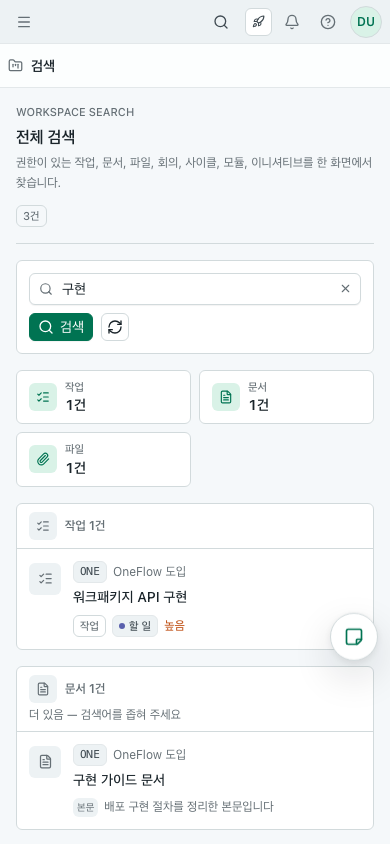
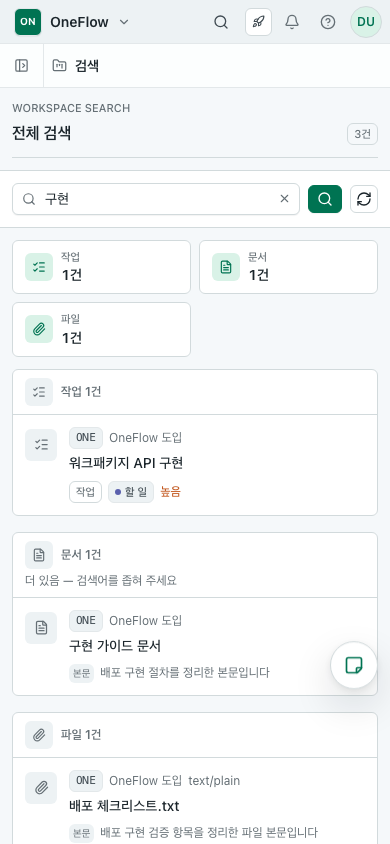
feat(web): retain mobile search results on failure (#503)

diff --git a/apps/web/src/features/search/SearchPage.tsx b/apps/web/src/features/search/SearchPage.tsx
@@ -2,6 +2,7 @@ import {
   Boxes,
   CalendarClock,
   CalendarDays,
+  CircleAlert,
   Compass,
   FileText,
   Paperclip,
@@ -11,7 +12,7 @@ import {
   X,
   type LucideIcon,
 } from 'lucide-react'
-import { type FormEvent, type ReactNode, useEffect, useMemo, useState } from 'react'
+import { type FormEvent, type ReactNode, useEffect, useMemo, useRef, useState } from 'react'
 import { useNavigate, useSearchParams } from 'react-router-dom'
 
 import { EmptyState, ErrorState, ListSkeleton } from '@/components/shell/states'
@@ -36,7 +37,13 @@ export function SearchPage() {
   const wikiEnabled = capabilities.data?.wiki.enabled === true
   const initiativesEnabled = capabilities.data?.initiatives.enabled === true
 
-  const { data, isFetching, isError, error, refetch } = useUnifiedSearch(q)
+  const { data, isFetching, isError, isPlaceholderData, error, refetch } = useUnifiedSearch(q)
+  const lastSuccessfulResults = useRef<UnifiedSearchResults | null>(null)
+
+  useEffect(() => {
+    if (!data || isPlaceholderData || isError) return
+    lastSuccessfulResults.current = data
+  }, [data, isError, isPlaceholderData])
 
   useEffect(() => {
     setInput(q)
@@ -66,45 +73,51 @@ export function SearchPage() {
   }
 
   const trimmedQuery = q.trim()
+  const results =
+    trimmedQuery.length >= 2
+      ? (data ?? (isError ? (lastSuccessfulResults.current ?? undefined) : undefined))
+      : undefined
   const summaries = useMemo(
-    () => groupSummaries(data, wikiEnabled, initiativesEnabled),
-    [data, initiativesEnabled, wikiEnabled],
+    () => groupSummaries(results, wikiEnabled, initiativesEnabled),
+    [initiativesEnabled, results, wikiEnabled],
   )
   const totalReturned = summaries.reduce((sum, group) => sum + group.returned, 0)
-  const empty = data ? totalReturned === 0 : false
+  const empty = results ? totalReturned === 0 : false
   const waitingForQuery = trimmedQuery.length < 2
-  const loading = trimmedQuery.length >= 2 && isFetching && !data
+  const loading = trimmedQuery.length >= 2 && isFetching && !results
   const resultText = waitingForQuery
     ? '검색 대기'
-    : data
+    : results
       ? `${totalReturned}건`
       : isFetching
         ? '검색 중'
         : ' '
 
   return (
-    <div className="mx-auto flex h-full w-full max-w-6xl flex-col gap-4 overflow-y-auto px-4 py-4 sm:px-6">
-      <header className="border-b border-of-border pb-4">
-        <div className="flex min-w-0 flex-col gap-3 lg:flex-row lg:items-end lg:justify-between">
+    <div className="mx-auto flex h-full w-full max-w-6xl flex-col gap-3 overflow-y-auto px-3 py-3 pb-24 sm:gap-4 sm:px-6 sm:py-4 sm:pb-6">
+      <header className="border-b border-of-border pb-3 sm:pb-4">
+        <div className="flex min-w-0 items-end justify-between gap-3">
           <div className="min-w-0">
             <p className="text-[11px] font-medium uppercase text-of-muted">Workspace search</p>
             <h1 className="mt-1 text-base font-semibold">전체 검색</h1>
-            <p className="mt-1 max-w-3xl text-xs leading-5 text-of-muted">
+            <p className="mt-1 hidden max-w-3xl text-xs leading-5 text-of-muted sm:block">
               권한이 있는 작업, 문서, 파일, 회의, 사이클, 모듈, 이니셔티브를 한 화면에서 찾습니다.
             </p>
           </div>
-          <div className="flex flex-wrap items-center gap-2">
+          <div className="flex shrink-0 flex-wrap items-center justify-end gap-1.5 sm:gap-2">
             <Badge variant="outline">{resultText}</Badge>
-            {isFetching && data ? <Badge variant="accent">업데이트 중</Badge> : null}
+            {isFetching && results ? (
+              <Badge variant="accent">{isPlaceholderData ? '이전 결과' : '업데이트 중'}</Badge>
+            ) : null}
           </div>
         </div>
       </header>
 
       <section
         aria-label="검색어 입력"
-        className="rounded-of border border-of-border bg-of-surface p-3 shadow-[var(--of-shadow-card)]"
+        className="-mx-3 border-y border-of-border bg-of-surface px-3 py-3 sm:mx-0 sm:rounded-of sm:border sm:shadow-[var(--of-shadow-card)]"
       >
-        <form onSubmit={submit} className="flex flex-col gap-2 sm:flex-row sm:items-center">
+        <form onSubmit={submit} className="flex items-center gap-2">
           <div className="relative min-w-0 flex-1">
             <Search
               size={14}
@@ -129,22 +142,20 @@ export function SearchPage() {
               </button>
             ) : null}
           </div>
-          <div className="flex items-center gap-2">
-            <Button type="submit" size="sm">
-              <Search size={13} /> 검색
-            </Button>
-            <Button
-              type="button"
-              variant="outline"
-              size="icon"
-              aria-label="새로고침"
-              className="h-7 w-7"
-              disabled={waitingForQuery}
-              onClick={() => refetch()}
-            >
-              <RefreshCw size={13} className={isFetching ? 'animate-spin' : undefined} />
-            </Button>
-          </div>
+          <Button type="submit" size="sm" aria-label="검색" className="shrink-0">
+            <Search size={13} /> <span className="hidden sm:inline">검색</span>
+          </Button>
+          <Button
+            type="button"
+            variant="outline"
+            size="icon"
+            aria-label="새로고침"
+            className="h-7 w-7 shrink-0"
+            disabled={waitingForQuery}
+            onClick={() => refetch()}
+          >
+            <RefreshCw size={13} className={isFetching ? 'animate-spin' : undefined} />
+          </Button>
         </form>
       </section>
 
@@ -161,6 +172,32 @@ export function SearchPage() {
         </section>
       ) : null}
 
+      {isError && results ? (
+        <section
+          role="alert"
+          className="flex min-w-0 flex-col gap-2 rounded-of border border-of-danger/20 bg-of-danger-soft/45 px-3 py-2.5 sm:flex-row sm:items-center sm:justify-between"
+        >
+          <div className="flex min-w-0 items-start gap-2">
+            <CircleAlert size={15} className="mt-0.5 shrink-0 text-of-danger" aria-hidden="true" />
+            <div className="min-w-0">
+              <p className="text-xs font-medium text-of-text">'{q}' 검색을 완료하지 못했습니다</p>
+              <p className="mt-0.5 text-[11px] leading-4 text-of-muted">
+                마지막으로 확인한 '{results.query}' 결과를 유지합니다.
+              </p>
+            </div>
+          </div>
+          <Button
+            type="button"
+            variant="outline"
+            size="sm"
+            className="self-start sm:self-auto"
+            onClick={() => refetch()}
+          >
+            <RefreshCw size={13} /> '{q}' 다시 시도
+          </Button>
+        </section>
+      ) : null}
+
       {waitingForQuery ? (
         <EmptyState
           title="검색어를 입력하세요"
@@ -168,19 +205,22 @@ export function SearchPage() {
         />
       ) : loading ? (
         <ListSkeleton />
-      ) : isError ? (
+      ) : isError && !results ? (
         <ErrorState error={error} onRetry={() => refetch()} />
-      ) : !data || empty ? (
-        <EmptyState title={`'${q}' 결과가 없습니다`} hint="검색어를 줄이거나 다른 단어로 다시 찾아보세요." />
+      ) : !results || empty ? (
+        <EmptyState
+          title={`'${results?.query ?? q}' 결과가 없습니다`}
+          hint="검색어를 줄이거나 다른 단어로 다시 찾아보세요."
+        />
       ) : (
         <div className="space-y-4">
           <GroupSection
             icon={ListChecks}
             title="작업"
-            returned={data.work_packages.returned}
-            truncated={data.work_packages.truncated}
+            returned={results.work_packages.returned}
+            truncated={results.work_packages.truncated}
           >
-            {data.work_packages.items.map((item) => (
+            {results.work_packages.items.map((item) => (
               <ResultRow
                 key={item.id}
                 icon={ListChecks}
@@ -203,10 +243,10 @@ export function SearchPage() {
             <GroupSection
               icon={FileText}
               title="문서"
-              returned={data.documents.returned}
-              truncated={data.documents.truncated}
+              returned={results.documents.returned}
+              truncated={results.documents.truncated}
             >
-              {data.documents.items.map((item) => (
+              {results.documents.items.map((item) => (
                 <ResultRow
                   key={item.id}
                   icon={FileText}
@@ -224,10 +264,10 @@ export function SearchPage() {
           <GroupSection
             icon={Paperclip}
             title="파일"
-            returned={data.files.returned}
-            truncated={data.files.truncated}
+            returned={results.files.returned}
+            truncated={results.files.truncated}
           >
-            {data.files.items.map((item) => (
+            {results.files.items.map((item) => (
               <ResultRow
                 key={item.id}
                 icon={Paperclip}
@@ -245,10 +285,10 @@ export function SearchPage() {
           <GroupSection
             icon={CalendarClock}
             title="회의"
-            returned={data.meetings.returned}
-            truncated={data.meetings.truncated}
+            returned={results.meetings.returned}
+            truncated={results.meetings.truncated}
           >
-            {data.meetings.items.map((item) => (
+            {results.meetings.items.map((item) => (
               <ResultRow
                 key={item.id}
                 icon={CalendarClock}
@@ -269,10 +309,10 @@ export function SearchPage() {
           <GroupSection
             icon={CalendarDays}
             title="사이클"
-            returned={data.cycles.returned}
-            truncated={data.cycles.truncated}
+            returned={results.cycles.returned}
+            truncated={results.cycles.truncated}
           >
-            {data.cycles.items.map((item) => (
+            {results.cycles.items.map((item) => (
               <ResultRow
                 key={item.id}
                 icon={CalendarDays}
@@ -287,10 +327,10 @@ export function SearchPage() {
           <GroupSection
             icon={Boxes}
             title="모듈"
-            returned={data.modules.returned}
-            truncated={data.modules.truncated}
+            returned={results.modules.returned}
+            truncated={results.modules.truncated}
           >
-            {data.modules.items.map((item) => (
+            {results.modules.items.map((item) => (
               <ResultRow
                 key={item.id}
                 icon={Boxes}
@@ -306,10 +346,10 @@ export function SearchPage() {
             <GroupSection
               icon={Compass}
               title="이니셔티브"
-              returned={data.initiatives.returned}
-              truncated={data.initiatives.truncated}
+              returned={results.initiatives.returned}
+              truncated={results.initiatives.truncated}
             >
-              {data.initiatives.items.map((item) => (
+              {results.initiatives.items.map((item) => (
                 <ResultRow
                   key={item.id}
                   icon={Compass}

diff --git a/apps/web/src/features/search/api.ts b/apps/web/src/features/search/api.ts
@@ -1,4 +1,4 @@
-import { useMutation, useQuery, useQueryClient } from '@tanstack/react-query'
+import { keepPreviousData, useMutation, useQuery, useQueryClient } from '@tanstack/react-query'
 
 import { ApiError, api } from '@/lib/api'
 import { decideOnPatchError } from '@/lib/conflict'
@@ -288,6 +288,7 @@ export function useUnifiedSearch(q: string) {
     queryFn: () => api<UnifiedSearchResults>(`/api/v1/search?q=${encodeURIComponent(query)}`),
     // The server requires 2+ chars (load control) — don't fire a doomed request.
     enabled: query.length >= 2,
+    placeholderData: keepPreviousData,
   })
 }
 
